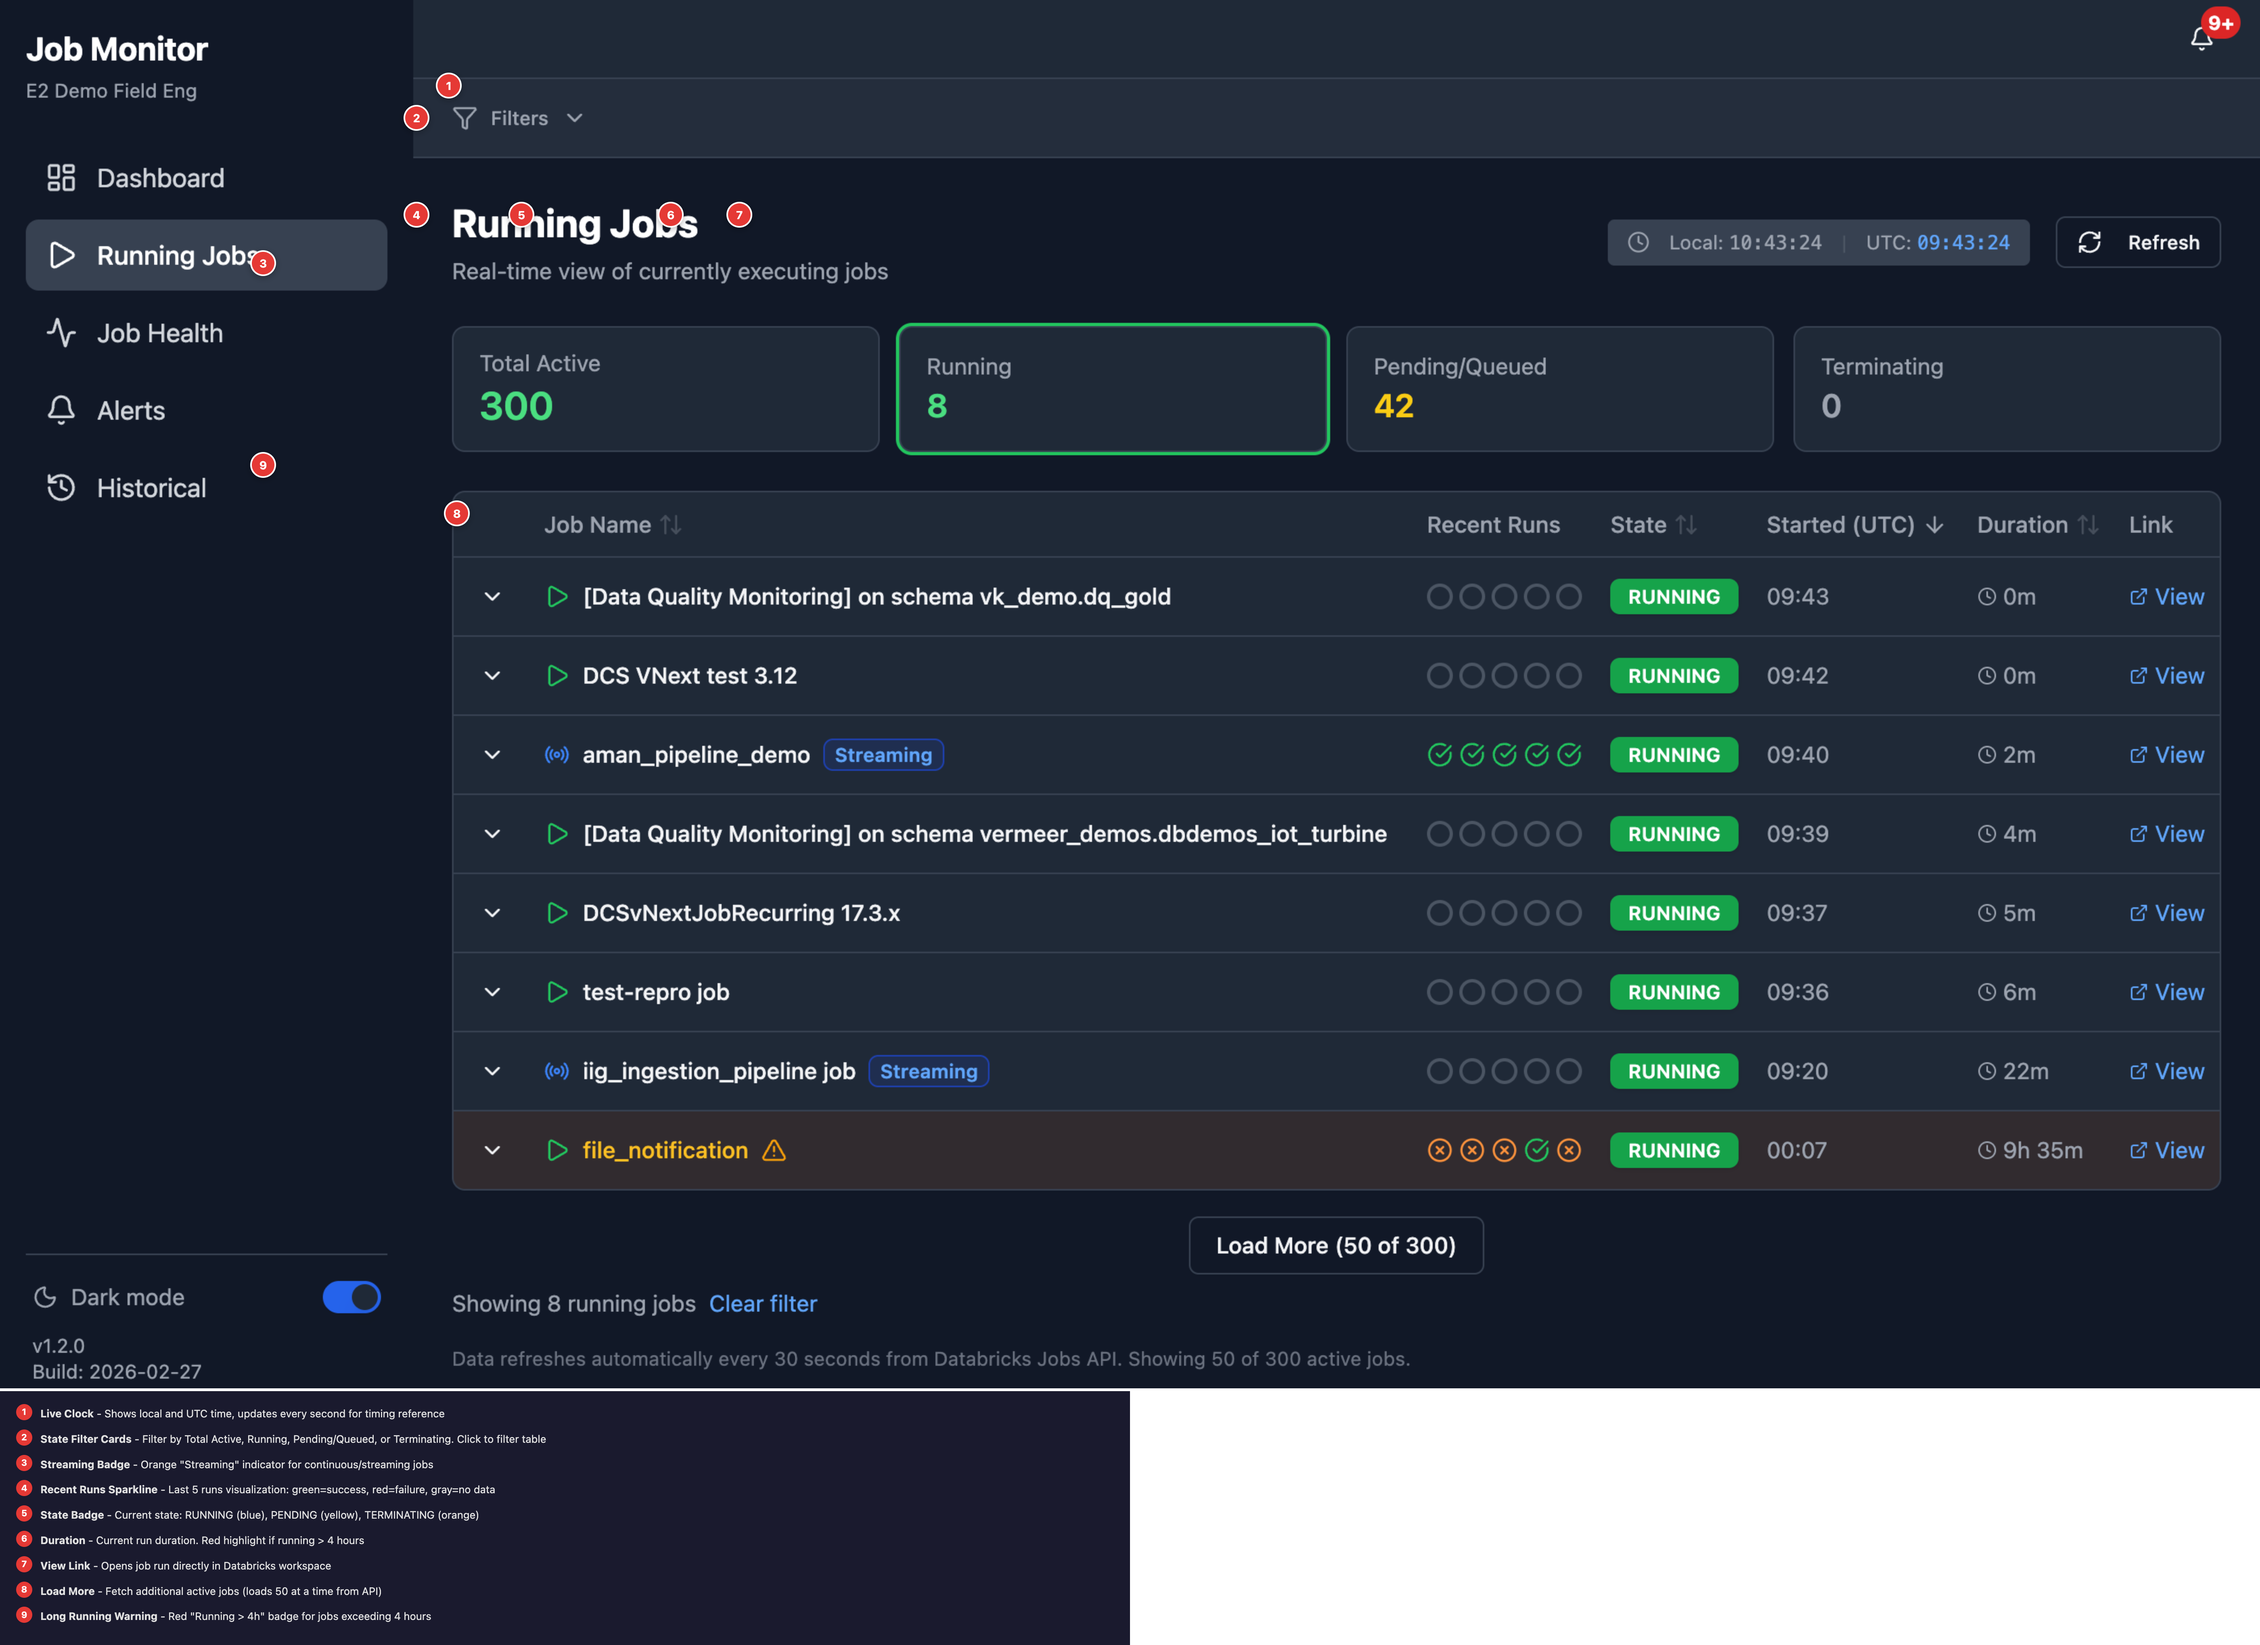
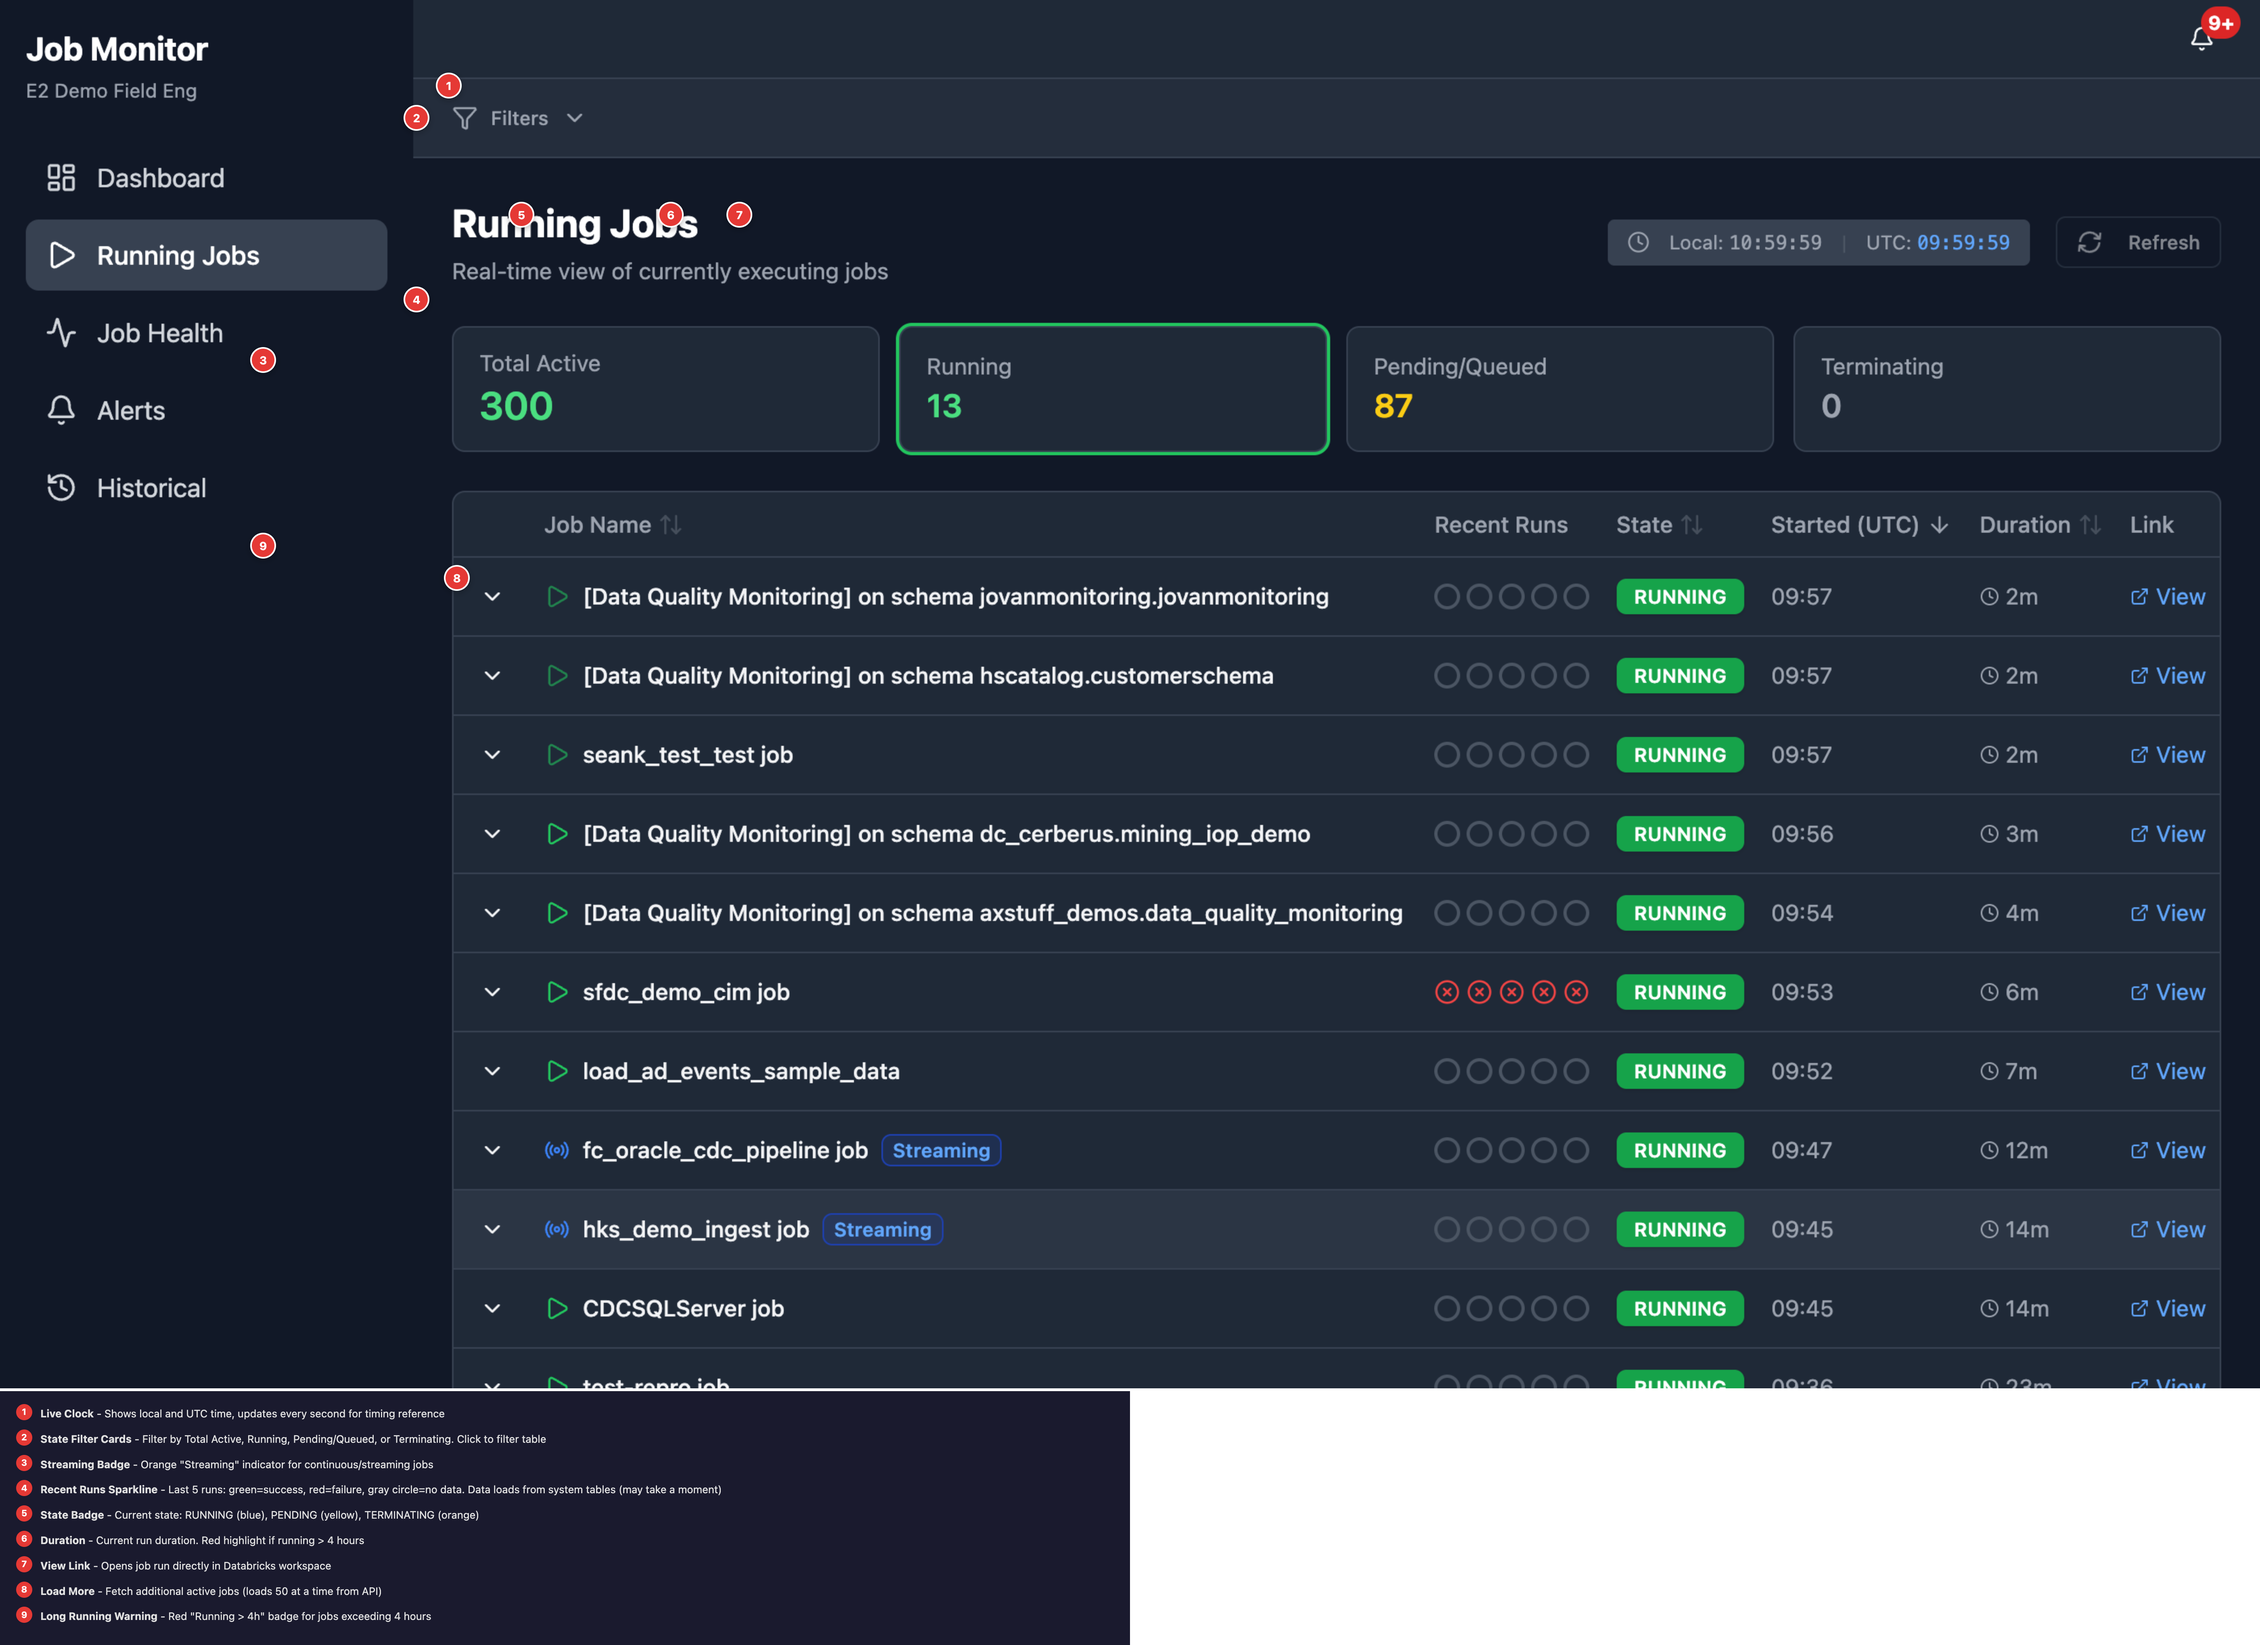
docs: update Running Jobs screenshots and clarify sparkline behavior
- Retake running-jobs.png with populated sparkline data visible
- Update annotated screenshot with adjusted callout positions
- Clarify Recent Runs Indicator documentation:
  - Explain empty circles indicate no historical data
  - Document common reasons for empty sparklines
  - Note system table latency (5-15 minutes)

diff --git a/docs/USER_GUIDE.md b/docs/USER_GUIDE.md
@@ -290,7 +290,7 @@ Four clickable cards for filtering by job state:
 
 ### Recent Runs Indicator
 
-Displays the last 5 completed runs as small icons:
+Displays the last 5 completed runs as small icons. This data is fetched from Unity Catalog system tables and may take a moment to load after the page opens.
 
 | Icon | Meaning |
 |------|---------|
@@ -298,7 +298,12 @@ Displays the last 5 completed runs as small icons:
 | Red X | FAILED |
 | Orange X | CANCELED |
 | Gray minus | SKIPPED |
-| Empty circle | No data / Still running |
+| Empty gray circle | No historical data available |
+
+**Note**: Empty circles indicate that no historical run data exists for that job in the system tables. This is common for:
+- Newly created jobs that haven't completed a run yet
+- Jobs that haven't run within the selected time window
+- Jobs where system table data hasn't synced yet (5-15 minute latency)
 
 ### Streaming Job Detection
 
